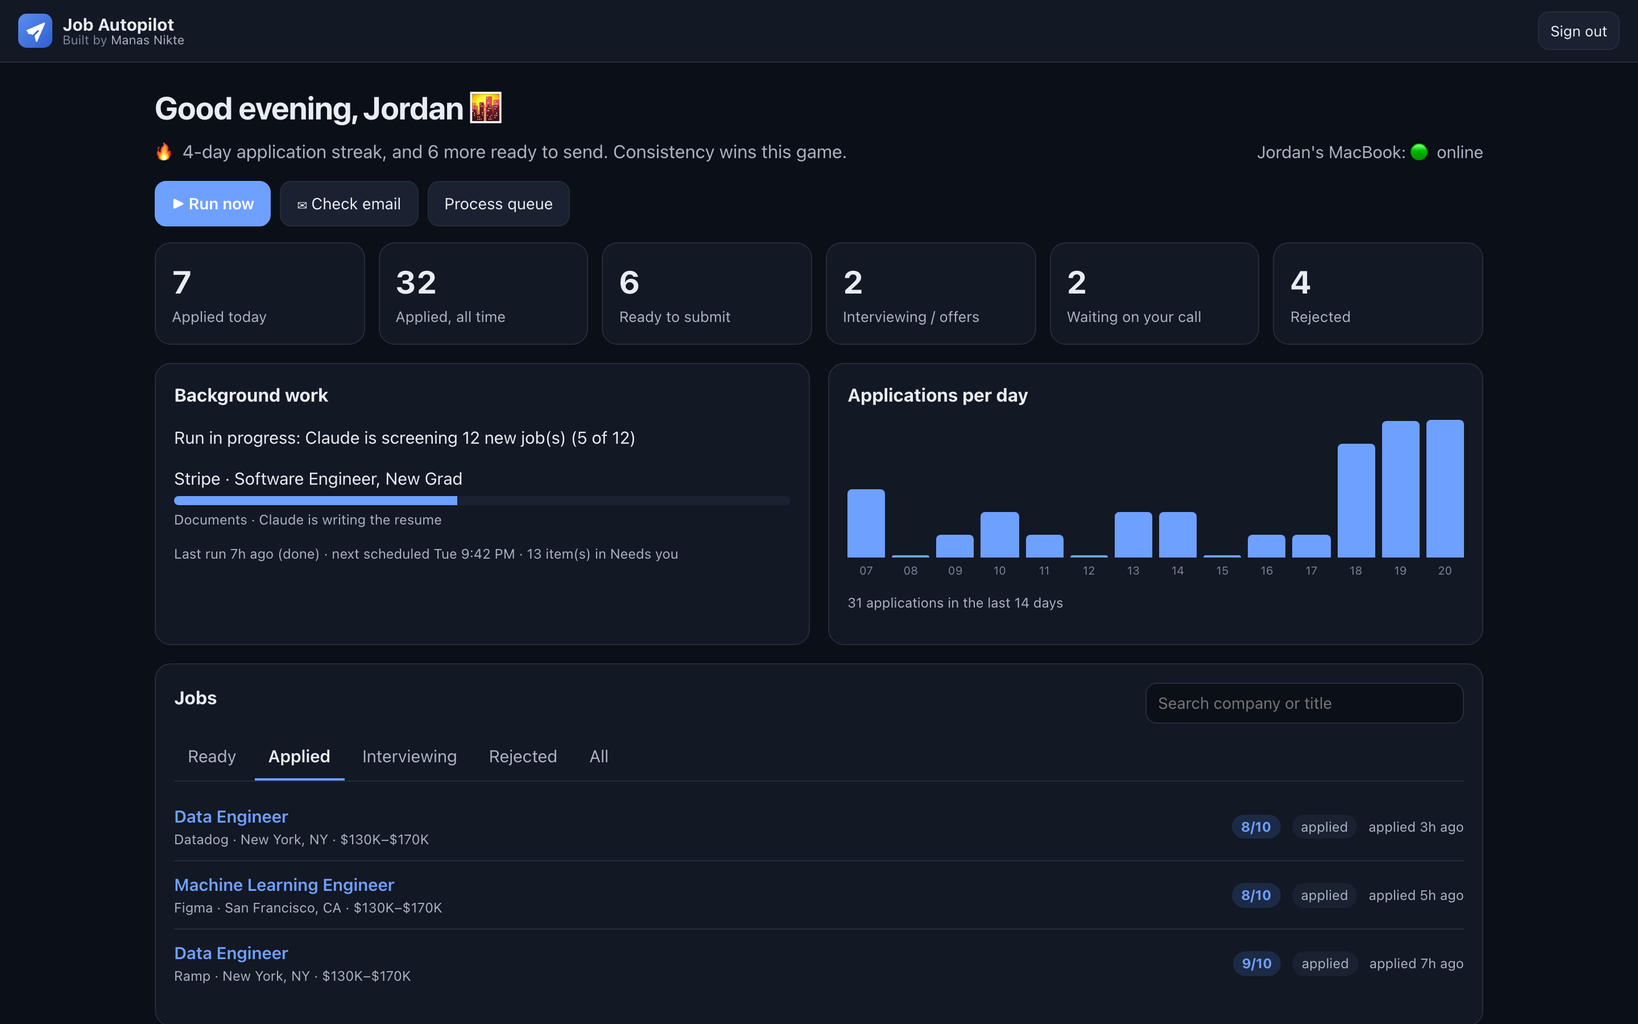
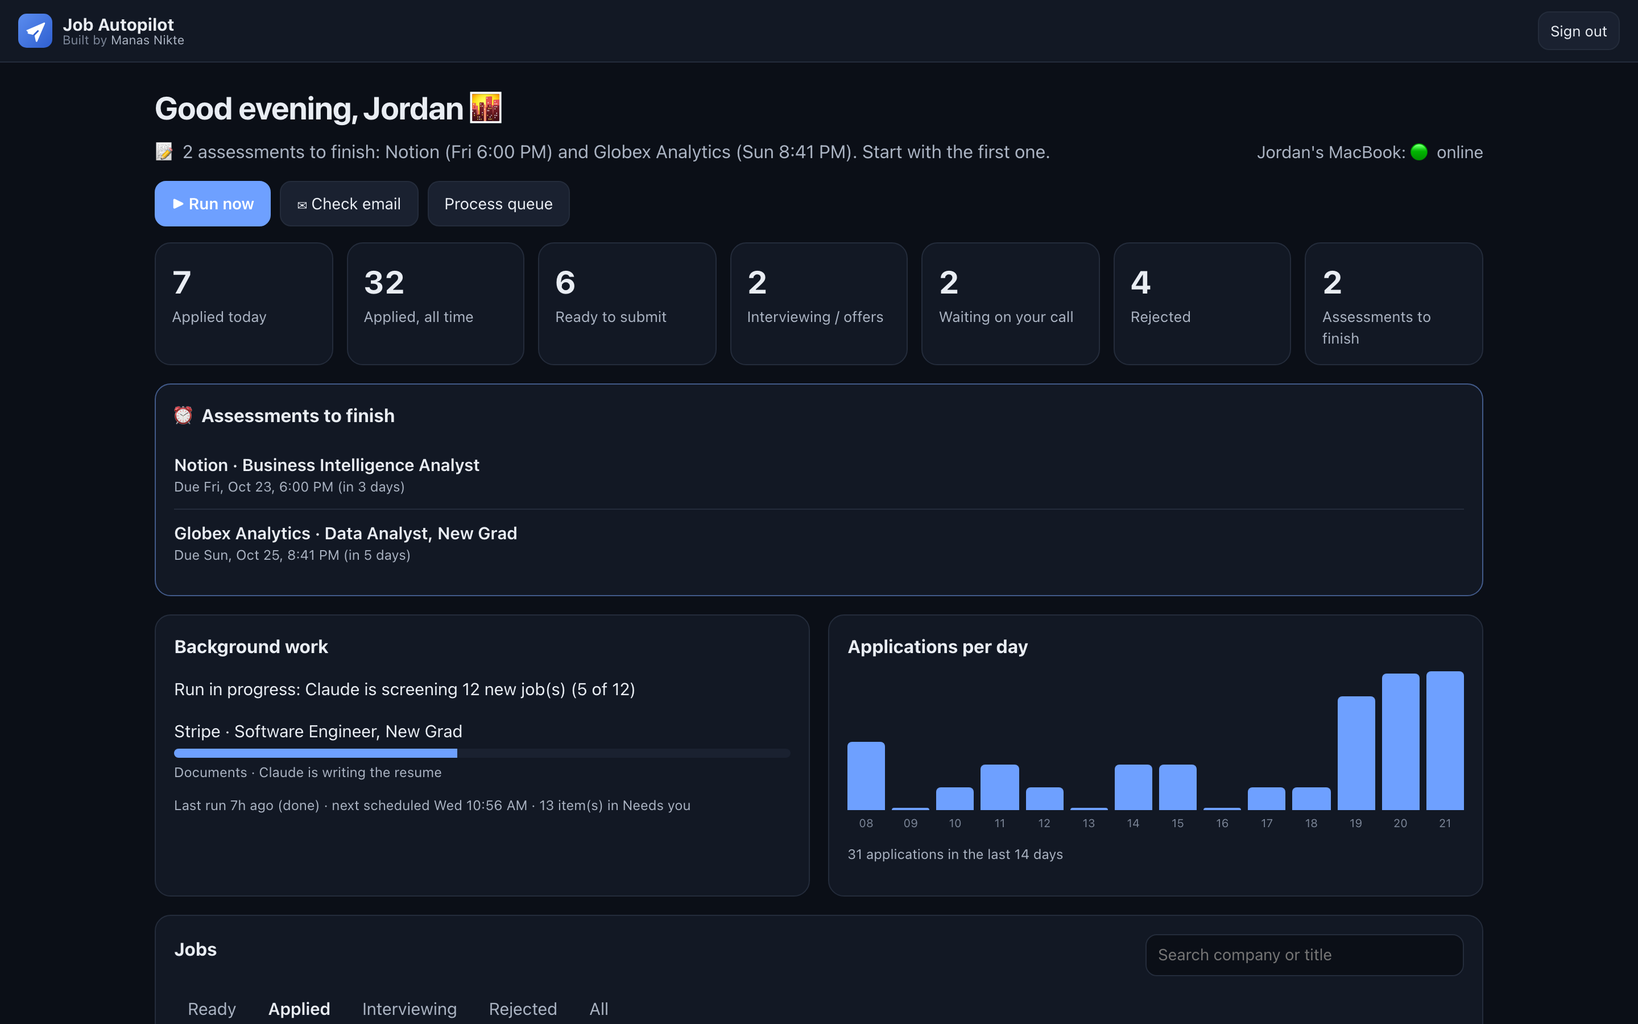
Docs: README and project report refreshed with new screenshots (v3.5.2)
- New screenshots from the fictional demo: assessments card, assessment map pins, update dialog,
  guided tour, operator Users page, phone/tablet, and the online dashboard with assessments
- README: What's new for v3.1-v3.5, highlights, screenshot gallery
- Project report: replies and deadlines, the phone dashboard, updates and tour, new architecture
  rows, security/privacy/sync/update engineering notes, results through October 21, new lessons
- Demo seed: two assessments with exact due times (one matched, one from outside the app)
- Maps: amber and red pins are drawn on top so a large city pin can't hide them

diff --git a/app/templates/dashboard.html b/app/templates/dashboard.html
@@ -127,6 +127,8 @@
     if (mine !== seq[key]) return;
     const m = maps[key]; m._layer.clearLayers();
     const pts = [];
+    const rank = pin => pin.jobs.some(j => j.status === "assessment") ? 2 : pin.jobs.every(j => j.status === "closed") ? 1 : 0;
+    d.pins.sort((a, b) => rank(a) - rank(b) || b.jobs.length - a.jobs.length);   // big pins first; amber and red on top
     for (const pin of d.pins) {
       const worst = pin.jobs.every(j => j.status === "closed") ? "closed"
                   : pin.jobs.some(j => j.status === "assessment") ? "assessment"

diff --git a/scripts/demo_seed.py b/scripts/demo_seed.py
@@ -259,8 +259,11 @@ def main() -> None:
     applied = pick("applied")
     if applied:
         j = applied[0]
-        due = (NOW + timedelta(days=6)).strftime("%Y-%m-%d")
-        emails.append((j, "assessment", f"[Action Required] Your {j['company']} online assessment", f"{j['company']} sent a 90-minute coding assessment.", "https://www.hackerrank.com/test/example", due))
+        d = NOW + timedelta(days=2)
+        due = d.strftime("%Y-%m-%d")
+        emails.append((j, "assessment", f"[Action Required] Your {j['company']} online assessment",
+                       f"{j['company']} sent a 90-minute coding assessment, due {d:%B} {d.day}, {d.year} at 6:00 PM ET.",
+                       "https://www.hackerrank.com/test/example", due))
     for j in applied[1:7]:
         emails.append((j, "confirmation", f"Thank you for applying to {j['company']}", f"{j['company']} received the {j['title']} application.", "", ""))
     for n, (j, ev, subject, summary, link, due) in enumerate(emails):
@@ -275,13 +278,25 @@ def main() -> None:
         if ev in ("assessment", "interview"):
             title = ("Online assessment from " if ev == "assessment" else "Interview invite from ") + j["company"] + (f" · due {due}" if due else "")
             db.add_intervention(j["id"], ev, title, f"{summary}\n{link}\nEmail: {subject}")
+    d2 = NOW + timedelta(days=4)         # an assessment from a company applied to outside the app (no job to match)
+    s2 = f"Globex Analytics invited the candidate to a 30-minute analyst assessment, due {d2:%B} {d2.day}, {d2.year} at 8:41 PM EDT."
+    db.execute("INSERT INTO email_events (account, msg_id, received_at, sender, subject, snippet, company, role, event, link, deadline, summary, "
+               "state, created_at) VALUES (?,?,?,?,?,?,?,?,?,?,?,?,?,?)",
+               ("jordan.lee@example.com", "<demo-unmatched-oa@example.com>", iso(NOW - timedelta(hours=9)), "Globex Talent <noreply@vervoe.example.com>",
+                "Your next steps with Globex Analytics", s2, "Globex Analytics", "Data Analyst, New Grad", "assessment", "",
+                d2.strftime("%Y-%m-%d"), s2, "unmatched", db.now()))
     db.execute("INSERT INTO email_events (account, msg_id, received_at, sender, subject, snippet, company, role, event, link, deadline, summary, "
                "state, created_at) VALUES (?,?,?,?,?,?,?,?,?,?,?,?,?,?)",
                ("jlee@university.example.edu", "<demo-unmatched@example.com>", iso(NOW - timedelta(hours=40)), "Talent Team <careers@initech.example.com>",
                 "Update on your application", "Initech is not moving forward.", "Initech", "", "rejection", "", "",
                 "Initech is not moving forward with the application.", "unmatched", db.now()))
-    db.kv_set("mail_last_sync", json.dumps({"fetched": len(emails) + 1, "classified": len(emails) + 1, "applied": len(emails),
-                                            "unmatched": 1, "errors": []}))
+    db.kv_set("mail_last_sync", json.dumps({"fetched": len(emails) + 2, "classified": len(emails) + 2, "applied": len(emails),
+                                            "unmatched": 2, "errors": []}))
+    from app import assessments                 # exact due times, and Needs you items for every pending assessment
+    db.execute("DELETE FROM interventions WHERE kind='assessment'")
+    assessments.backfill()
+    assessments.sync_todos()
+    db.kv_set("tour", "existing")
 
     print(f"Demo data written to {DEMO}. Start it with:\n"
           f"  JOB_AUTOPILOT_DATA=demo/data JOB_AUTOPILOT_PROFILE=demo/profile python -m app.cli serve")

diff --git a/app/version.py b/app/version.py
@@ -1,3 +1,3 @@
 """The app's version. Bump it (and add a section to CHANGELOG.md) when you push a release: everyone else's
 dashboard then shows "Update available" with those notes."""
-VERSION = "3.5.1"
+VERSION = "3.5.2"

diff --git a/PROJECT_REPORT.md b/PROJECT_REPORT.md
@@ -6,9 +6,9 @@ including overnight with the laptop lid closed, so the candidate's time goes onl
 | | |
 |---|---|
 | **Type** | Personal tool, built end to end (backend, LLM integration, PDF rendering, browser extension, scheduling) |
-| **Stack** | Python, Flask, SQLite, Claude (Claude Code CLI or Anthropic API, with web search), reportlab, Leaflet maps, Chrome extension (MV3), Playwright, macOS launchd/pmset |
-| **Size** | About 8,000 lines across the app, extension, and templates · 61 automated tests |
-| **Platforms** | macOS (primary), Windows, Linux · one-command setup by Claude Code ([CLAUDE_SETUP.md](CLAUDE_SETUP.md)) |
+| **Stack** | Python, Flask, SQLite, Claude (Claude Code CLI or Anthropic API, with web search), reportlab, Leaflet maps, Chrome extension (MV3), Playwright, macOS launchd/pmset · online dashboard on GitHub Pages + Supabase (Postgres, Auth, row-level security, realtime) |
+| **Size** | About 12,600 lines across the app, extension, website, and SQL · 102 automated tests |
+| **Platforms** | macOS (primary), Windows, Linux, plus a phone/tablet/TV dashboard · one-command setup by Claude Code ([CLAUDE_SETUP.md](CLAUDE_SETUP.md)) · one-click in-app updates |
 | **Status** | In daily use since October 2026 |
 
 ---
@@ -72,12 +72,49 @@ ready for the best matches, and a **Needs you** inbox with only these items:
 
 The dashboard opens with today's numbers (**applied today**, ready to submit, waiting on your call) and **two
 maps**: one pins every job that's ready to submit, and the other pins submitted applications. The second map
-switches between **Today** (applied, moved forward, or rejected today) and **All time**, and three toggle chips,
-**Applied**, **Interviewing / offer**, and **Rejected**, show any mix, such as only rejections or only active
-applications. Jobs that can't be pinned (remote, country-wide) are listed under the map, never dropped. One
+switches between **Today** (applied, moved forward, or rejected today) and **All time**, and four toggle chips,
+**Applied**, **Interviewing / offer**, **Assessments**, and **Rejected**, show any mix, such as only rejections or
+only pending assessments. Jobs that can't be pinned (remote, country-wide) are listed under the map, never dropped. One
 glance shows where the search is concentrated, where it's working, and where the open opportunities are.
 
 ![Application maps](docs/screenshots/maps.png)
+
+### Replies and deadlines, handled
+
+Employers answer by email, so the app reads the candidate's inboxes (Gmail, Outlook / Microsoft 365, or Apple
+Mail), **read-only**. A rule filter drops alerts and newsletters, so only application emails reach Claude. Claude
+sorts each one into received, rejected, assessment, interview, or offer. The matching job then updates itself, with
+an undo for every change.
+
+**Online assessments get special care, because they have deadlines.** The due time is read from the email
+("by 6:00am PT on October 26", "at 8:41 PM EDT") and converted to the candidate's time zone. Each pending
+assessment then shows up:
+
+- as a dashboard tile and an **Assessments to finish** card
+- in the welcome line ("2 assessments to finish: …, soonest first")
+- on **Needs you**
+- as an amber pin on the map
+- on the phone dashboard
+
+This includes assessments from companies the candidate applied to outside the app, which have no job to match.
+A desktop reminder fires every morning, and again 3 hours before each deadline. An assessment closes itself when
+the company later invites the candidate to interview, makes an offer, or declines.
+
+![Assessments to finish](docs/screenshots/assessments.png)
+
+### Away from the laptop
+
+An optional **online dashboard** works on a phone, tablet, or TV. It shows the same progress, jobs, email updates,
+and assessments. It can also start a run or an email check on the candidate's computer. Behind it:
+
+- **Free hosting:** GitHub Pages and Supabase.
+- **Sign-in:** email and password, confirmed with emailed 6-digit codes.
+- **Isolation:** row-level security, so each account sees only its own rows.
+- **Outbound-only computer:** it fetches requests every 30 seconds; nothing on the internet can reach in.
+- **Sleeping Mac:** it can wake every 30 minutes to pick up requests from the phone.
+
+New users get a **guided tour** of the dashboard on first launch. When the maintainer pushes a release, every
+install shows **Update available** with the release notes and updates itself in one click.
 
 ## 3. Time and mental energy saved
 
@@ -139,6 +176,10 @@ applied to within hours of going live, while applicant counts are still low.
 | `app/worker.py` | A thread pool with an atomic job claim, de-duplication, and a pause/resume across usage limits |
 | `app/web.py` + templates | Dashboard (KPIs, maps, charts), Jobs, Needs you, People, Background, Settings, and a profile/prompt editor with version history |
 | `extension/` | Chrome MV3 side panel: matches the open page to a job, uploads the tailored PDFs, answers questions from the profile, learns from edits, never submits |
+| `app/mailsync.py` | Read-only inbox readers (Gmail IMAP, Microsoft Graph, Apple Mail), the application-email filter, Claude classification, job matching, and undo |
+| `app/assessments.py` | Due times parsed from assessment emails (time and zone), one pending list (matched or not), Needs you items, and daily and 3-hours-before reminders |
+| `app/cloud.py`, `docs/`, `supabase/` | The online dashboard: an outbound-only connector that pushes summaries and runs whitelisted requests; a static site (strict CSP, PKCE sessions); and the Postgres schema with row-level security, rate limits, and operator-only stats |
+| `app/updater.py` | In-app updates: checks GitHub every 6 hours, shows CHANGELOG notes, and pulls with `--ff-only --autostash`, keeping the user's settings on conflicts, then restarts in place |
 | `scripts/` | launchd schedule installer and pmset wake helper (macOS), and a demo-data seeder |
 | `CLAUDE_SETUP.md` | Setup instructions written for Claude Code: OS detection, per-OS prerequisites, profile interview, verification, autostart, wake timers, troubleshooting |
 
@@ -176,22 +217,45 @@ applied to within hours of going live, while applicant counts are still low.
 - **Self-healing documents.** A bullet up to 3% too long stays on its line with about 0.03pt tighter letter
   spacing. Pages use the smaller sizes the prompt allows (down to 10pt) before overflowing. A **Fix it** button
   re-fits flagged documents with no model call. In practice that alone fixed every flagged resume so far.
+- **Security for the online dashboard:**
+  - **Login:** confirmed with emailed codes, and errors never reveal whether an email has an account.
+  - **Database:** row-level security on every table, a 30-requests-an-hour limit, and triggers so nobody can
+    write rows for a computer they don't own.
+  - **Each computer:** connects only outward, keeps a refresh token in the OS keychain (never the password),
+    and acts on four whitelisted requests only.
+  - **Verification:** the rules were tested in a real Postgres with a second, hostile account before going live.
+- **Privacy by default for the operator view.** The site owner sees people's application **counts** and the city
+  each person chose to share. Which companies people apply to never leaves their computer. The privacy note
+  says exactly what's visible.
+- **Sync that can't skip.** Changes sync by last-modified time, with a ">=" cursor plus idempotent upserts.
+  Deletes leave tombstones (SQLite triggers), so an undo, ignore, or reassignment on the computer reaches the
+  phone, not only new rows.
+- **Updates tested against real git repos.** The updater's tests build a throwaway remote and clone. One case
+  has the release and the user's settings change the same file. That test caught git reporting success while
+  leaving conflict markers in a settings file; the updater now always resolves in the user's favor.
 - **Clear boundaries.** Submitting applications and sending LinkedIn invites stay manual. Forms carry legal
   attestations and CAPTCHAs, and LinkedIn prohibits automation. Sites behind a login or bot protection
   (Indeed, Handshake, LinkedIn) are not scraped. Only public APIs and public data are used.
 
-## 6. Results so far (first five days)
+## 6. Results so far (first ten days, October 11–21, 2026)
 
-- **1,102** relevant postings tracked, **457** screened by Claude, **92** tailored document packages, **75**
-  applications submitted, and the first application already **moved forward to interviews**
+- **2,429** postings tracked: **1,462** removed by rules with no AI cost, and **967** screened in depth by Claude
+- **149** tailored resume and cover-letter packages, and **149** applications submitted
+- The first application **moved forward to an interview**. **2** online assessments are tracked, each with its
+  exact deadline and daily reminders.
+- **66** application emails read from two inboxes, and **57** matched to their job automatically
+  (rejections, confirmations, assessments, interview invites)
 - **~4,100** company boards and **~160,000** postings swept per run in about 4 minutes
-- **42,984** USCIS sponsor records loaded, **183** sponsors learned from feeds and screens, and **47** companies
-  verified online
-- **55** job locations geocoded and pinned on the dashboard maps
-- **61** automated tests, including Chromium-driven form-fill tests and regression tests for real failures:
-  sponsorship-refusal wording, pay parsing, PDF word-spacing leaks, near-miss line squeezing, the
-  Windows/Linux scheduling clock, and portable date formatting
-- Runs on **macOS, Windows, and Linux**. Anyone with a Claude seat can set it up with **one command**.
+- **42,984** USCIS sponsor records loaded, plus sponsors learned from feeds and verified online
+- **97** job locations geocoded and pinned on the dashboard maps
+- **102** automated tests, including:
+  - Chromium-driven form-fill tests
+  - row-level security checked against a real Postgres
+  - the updater checked against real git repositories
+  - regression tests for real failures: sponsorship-refusal wording, pay parsing, PDF word-spacing leaks,
+    same-second sync cursors, an Email-search crash, and due times in PT and EDT
+- Runs on **macOS, Windows, and Linux**, with a phone dashboard. Anyone with a Claude seat can set it up with
+  **one command**.
 
 ## 7. Lessons learned
 
@@ -211,6 +275,13 @@ applied to within hours of going live, while applicant counts are still low.
   employer names without spaces ("JPMorganChase" vs "JPMORGAN CHASE & CO") recovered more. Web lookups covered
   the rest.
 
+- **Read the deadline, not just the label.** "You have an assessment" was useful; "due Sunday 8:41 PM" is
+  actionable. Keeping the time and time zone from the email turned a status into a reminder system.
+- **Count what the user actually has, not what the database happened to match.** An assessment from a company
+  applied to outside the app was invisible until the list was built from the emails themselves.
+- **Shipping updates is a feature too.** Once other people run the app, a safe, one-click update path (and a test
+  for the conflict case) matters as much as any new screen.
+
 ## 8. Possible next steps
 
 - Track applicant counts and reply rates per source, and use them to rank boards
@@ -218,6 +289,8 @@ applied to within hours of going live, while applicant counts are still low.
 - Color map pins by match score, and add a heat layer for the cities with the most open roles
 - An email follow-up draft (Outlook) with the tailored PDFs attached, for contacts the candidate already has
 - A weekly digest of rejection reasons, to show which profile gaps cost the most roles
+- Push notifications on the phone for assessment deadlines (today they're desktop notifications and a phone card)
+- Add assessment links to a calendar with one click
 
 ---
 

diff --git a/README.md b/README.md
@@ -24,7 +24,45 @@ and Linux**, and **[one command](CLAUDE_SETUP.md) lets Claude Code set it all up
 
 ## 🆕 What's new
 
-**v3.0: check on your job search from your phone, and start a run from anywhere.**
+**v3.5: never miss an online assessment.** Assessment emails are read for their exact due time ("by 6:00am PT",
+"at 8:41 PM EDT"). Every pending assessment then shows up across the app, including ones from companies you
+applied to outside the app:
+
+- a dashboard tile (red when one is due within 36 hours)
+- an **Assessments to finish** card with Open assessment, See the email, Done, and Not doing it
+- the welcome line and Needs you
+- amber pins on the map
+- the phone dashboard
+
+You get a desktop reminder every morning, and another 3 hours before each deadline. An assessment closes itself
+when the company later invites you to interview, makes an offer, or declines.
+
+![Assessments to finish](docs/screenshots/assessments.png)
+
+**Also new since v3.0:**
+
+| One-click updates with release notes (v3.1) | A guided tour for new users (v3.3) |
+|---|---|
+| ![What's new dialog](docs/screenshots/update-dialog.png) | ![Guided tour](docs/screenshots/tour.png) |
+
+- **One-click updates (v3.1).** When a new version is on GitHub, the dashboard shows **Update available**.
+  **What's new** lists the changes. **Update now** pulls the code, keeps your settings, installs new packages,
+  and restarts itself.
+- **Guided first-run tour (v3.3).** It walks new users through Run now, the numbers, Needs you, Jobs, the Chrome
+  extension, Applied, Email, Profile, and Settings. Skip it anytime, or replay it from Settings.
+- **Online dashboard (v3.1, v3.2).** Sign in with more than one email, for example personal and university.
+  Undoing, ignoring, or matching an email on your computer now syncs to your phone.
+- **For the site operator (v3.1).** Your dashboard footer shows total and active users (active means they applied
+  in the last 14 days). The **Users** page lists each person's application counts and the city they chose to
+  share. It never shows which companies people apply to. Your own Gmail emails you when someone new joins.
+- **Reliability (v3.1):**
+  - Cloud sync never skips a change.
+  - Phone requests can't get stuck.
+  - Regenerating documents can't reset an applied job.
+  - Follow-up reminders don't multiply.
+  - The Email page search works again (v3.5.1).
+
+### v3.0: check on your job search from your phone, and start a run from anywhere
 
 - **Responsive everywhere.** The dashboard now fits a phone, a tablet, a laptop, or a 32-inch monitor or TV:
   - On phones: a menu button, stacked tables, and swipeable tabs.
@@ -78,7 +116,7 @@ greets you with one line above the KPIs, written from your computer's clock and 
 >
 > **Still up, Jordan? 🌙**<br>🦉 4 applications in today. The night shift counts, now get some sleep.
 >
-> **Good morning, Jordan ☀**<br>📝 Roblox sent an assessment. Knock it out while you're sharp.
+> **Good morning, Jordan ☀**<br>📝 Notion sent an assessment. Knock it out while you're sharp.
 
 Offers, interviews, and assessments from your email come first; then personal bests, streaks, and
 ready-to-send applications. The line never invents progress. Email checks now show live in the
@@ -187,10 +225,15 @@ assessment surfaced with its deadline, and eight confirmations recorded.
 - **Dashboard.** A personal greeting written from the time of day and your real progress, KPIs (including **applied today**), **maps of where you're applying**, a 14-day
   applications chart, a pipeline funnel, live per-job progress bars with an honest "not started / running /
   paused" status, server-side pagination and search everywhere, and dark, light, and system themes.
+- **Online assessments with deadlines (v3.4–v3.5).** Due times are read from the email. Pending assessments get
+  a KPI, a card, Needs you items, map pins, and daily and 3-hours-before reminders.
+- **Phone dashboard and remote runs (v3.0).** Hosted for free on GitHub Pages and Supabase. Secure sign-in with
+  emailed codes, and row-level security so each person sees only their own data.
+- **Updates and onboarding (v3.1, v3.3).** In-app updates with release notes and a guided tour for new users.
 - **Application maps.** One map pins every job ready to submit. A second map pins submitted applications,
-  with a **Today / All time** switch (today = applied, moved forward, or rejected today) and three toggle chips,
+  with a **Today / All time** switch (today = applied, moved forward, or rejected today) and four toggle chips,
   **Applied**, **Interviewing / offer**, and **Rejected**, to show any mix (double-click a chip for only that
-  status). Locations are geocoded once through OpenStreetMap and cached. Building or street names fall back to
+  status), plus **Assessments** (amber pins with due times). Locations are geocoded once through OpenStreetMap and cached. Building or street names fall back to
   the company's location, and remote or country-wide jobs are listed under the map. Clicking a pin lists its jobs.
 
 ## How it works
@@ -220,8 +263,8 @@ assessment surfaced with its deadline, and eight confirmations recorded.
 
 ## Screenshots
 
-**Maps**: jobs ready to submit, and submitted applications (here: all time, with Applied, Interviewing / offer,
-and Rejected all switched on; rejected pins are red).
+**Maps**: jobs ready to submit, and submitted applications (here: all time, with every status switched on;
+rejected pins are red and pending assessments amber).
 
 ![Application maps](docs/screenshots/maps.png)
 
@@ -254,6 +297,14 @@ for this role.
 | Profile and master-prompt editor | Light theme |
 |---|---|
 | ![Profile](docs/screenshots/profile.png) | ![Light theme](docs/screenshots/dashboard-light.png) |
+
+| Email updates (read-only inbox tracking) | Users page (site operator only; counts, never companies) |
+|---|---|
+| ![Email](docs/screenshots/email.png) | ![Users](docs/screenshots/users.png) |
+
+| Phone | Tablet |
+|---|---|
+| ![Phone](docs/screenshots/dashboard-phone.png) | ![Tablet](docs/screenshots/dashboard-tablet.png) |
 
 ---
 

diff --git a/CHANGELOG.md b/CHANGELOG.md
@@ -3,6 +3,10 @@
 Your dashboard shows the newest section here as "What's new" when an update is available.
 Format: `## <version> (<date>)` followed by short, user-facing bullets.
 
+## 3.5.2 (2026-10-21)
+- Maps: amber (assessment) and red (rejected) pins are drawn on top, so a big city pin can't hide them.
+- README and project report refreshed with new screenshots.
+
 ## 3.5.1 (2026-10-21)
 - Fixed: searching the Email page showed "Internal Server Error".
 - "See the email" (Needs you and the Assessments card) now opens that exact email, with the text saved from it.
